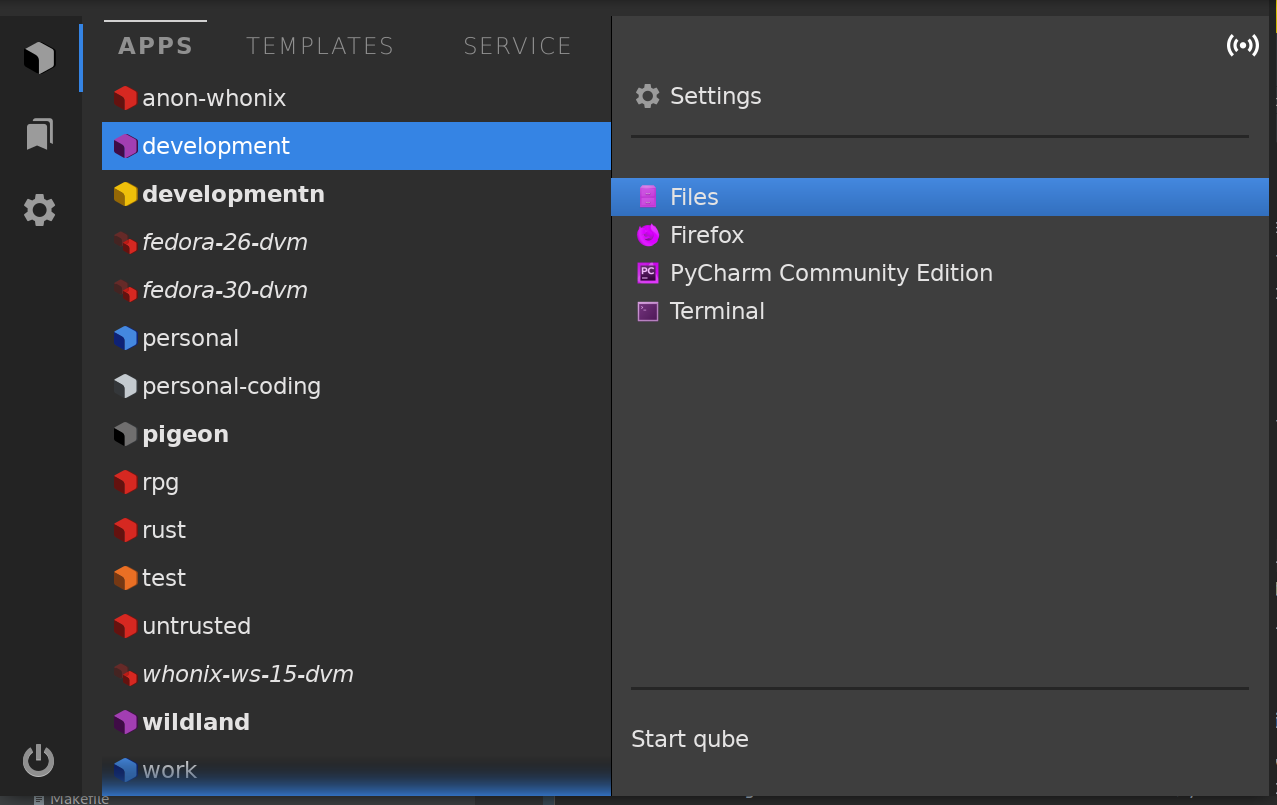
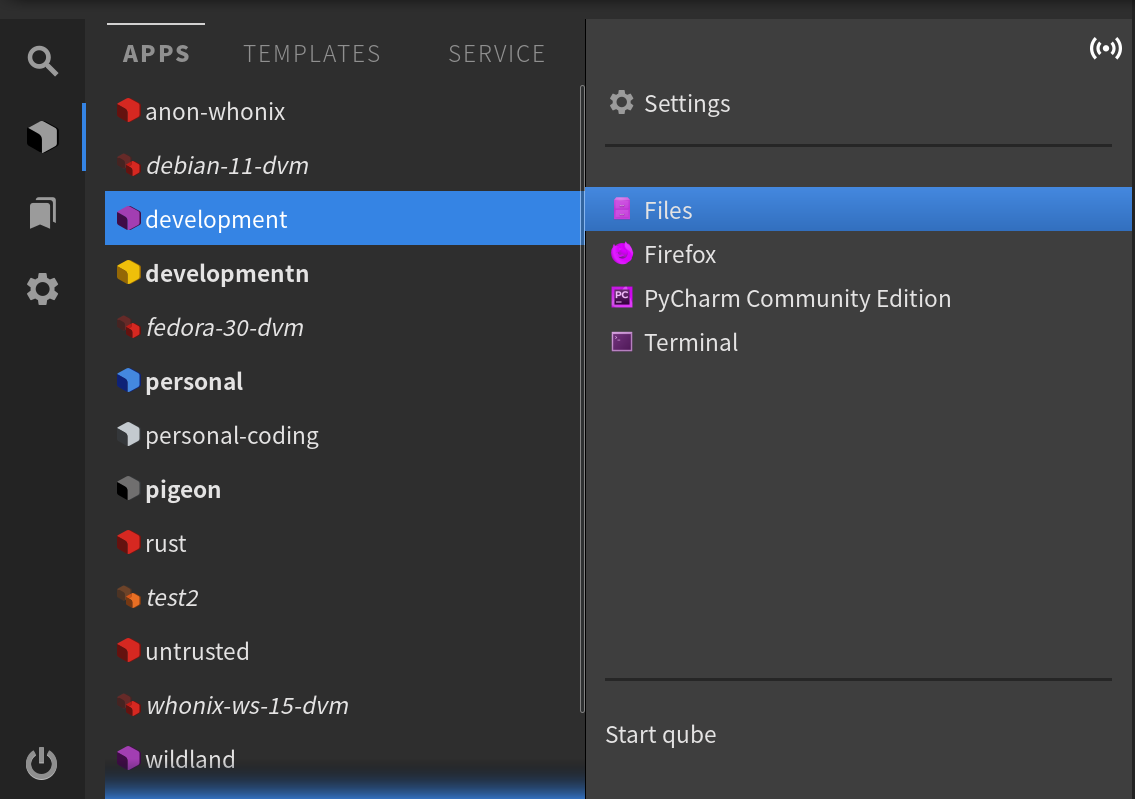
Add Search to readme, update old images

diff --git a/README.md b/README.md
@@ -58,6 +58,35 @@ in the system).
 
 ![](readme_img/menu4.png)
 
+### Search pane
+
+To search in the menu, you can just start typing your search terms while
+the menu is open, or select the top tab and type there:
+
+![](readme_img/menu_search.png)
+
+You can search by program or qube name:
+
+![](readme_img/menu_search_by_program.png)
+
+and filter the search results by qube:
+
+![](readme_img/menu_search_filter.png)
+
+The search is case-insensitive and word-order-insensitive, which allows
+the user to easily keep typing to specify details of their search, e.g.:
+
+![](readme_img/menu_search_by_name_and_qube.png)
+
+Furthermore, the found search terms are highlighted in the program and
+qube name.
+
+If Search had been already used during the current session, the Search
+pane shows a list of recent searches.
+
+![](readme_img/menu_search_recent.png)
+
+
 ## How to run
 
 The menu can be started via CLI: `qubes-app-menu`. The menu remains running
